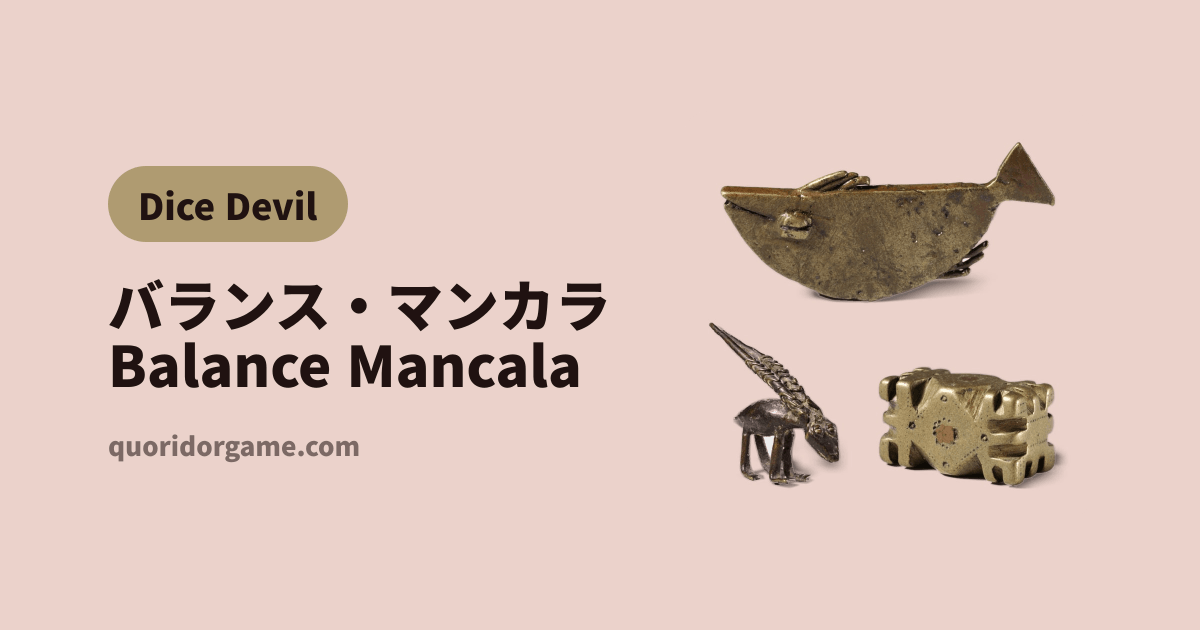
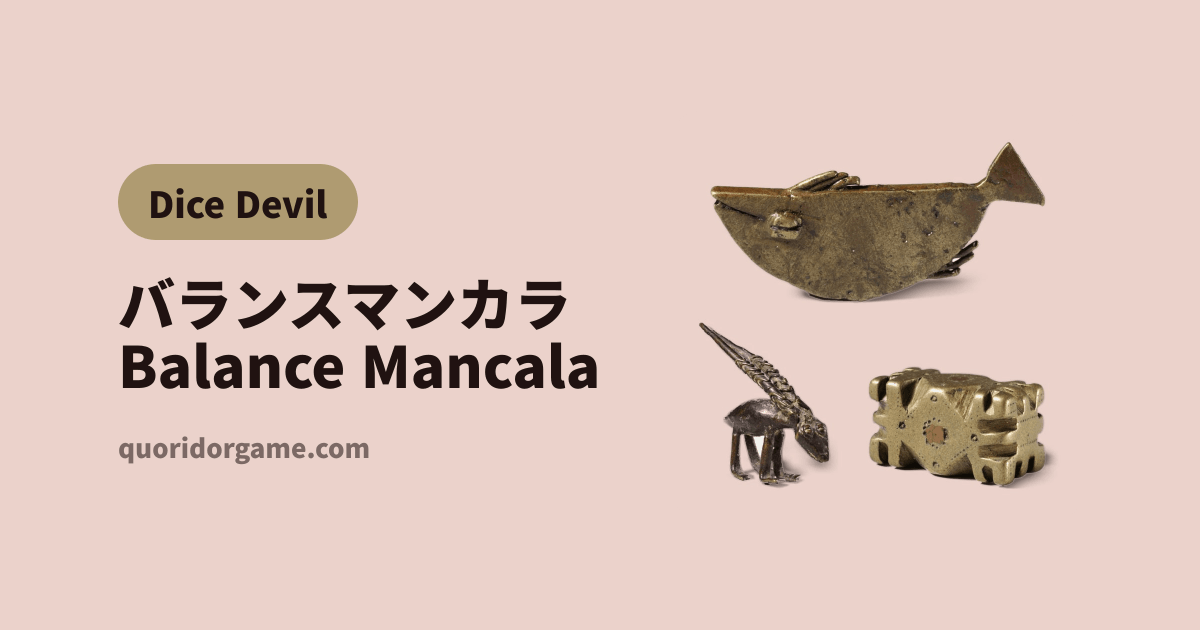
fix(balance-mancala): 日文名照日本觀眾的寫法改成「バランスマンカラ」
查證時日本粉絲都不加中間的點；平台卡片也用同一個寫法。日文分享圖重產。

Claude-Session: https://claude.ai/code/session_01VbfEeJvisc9iRddWhVWALh

diff --git a/app/games/balance-mancala/text.ts b/app/games/balance-mancala/text.ts
@@ -5,7 +5,7 @@ import type { TextTable } from '@/i18n/gameText';
  * 語系 key 在兩格縮排、依 'zh-TW' → en → ja → ko → 'zh-Hans' → th 排，字型子集靠這個切字。
  *
  * 用詞照 glossary.md：棋子／piece／駒／말／棋子／หมาก，本機對戰、單人對戰的各語說法。
- * 遊戲名：繁簡「平衡播棋」（節目的中文名；原本自己取的「均衡曼卡拉」10/24 照 Netflix 版本改掉，見 glossary〈遊戲名〉）、英文 Balance Mancala、日文「バランス・マンカラ」、
+ * 遊戲名：繁簡「平衡播棋」（節目的中文名；原本自己取的「均衡曼卡拉」10/24 照 Netflix 版本改掉，見 glossary〈遊戲名〉）、英文 Balance Mancala、日文「バランスマンカラ」（日本觀眾的寫法，不加中間的點，10/25 查證）、
  * 韓文「균형의 만칼라」（節目 RULE 卡的名字）、泰文「แมนคาลาสมดุล」。
  * {seat} 是座位字母、{cell} 是格子名（「藍 05」「惡魔」）、{colour} 是顏色名。
  */
@@ -306,12 +306,12 @@ export const TEXT: TextTable<BalanceMancalaText> = {
     credit: 'Icons: game-icons.net (CC BY 3.0). The border is the edge of an adinkra cloth: cowries (Nsirewa, wealth) along the top and bottom, twisting (Nkyimkyim, adaptability) down the sides and linked hearts (Akoma ntoaso, unity) in the corners. Symbols from R. S. Rattray, Religion and Art in Ashanti (1927).',
   },
   ja: {
-    title: 'バランス・マンカラ',
+    title: 'バランスマンカラ',
     altName: 'Balance Mancala',
     showRef: '悪魔の計略 ～デビルズ・プラン～ シーズン2 · 5日目',
     tagline: '最後の駒を誰に置くかはあなた次第。3色をそろえよう。',
-    metaTitle: 'バランス・マンカラ（Balance Mancala）を無料でオンラインプレイ',
-    metaDescription: 'Netflix『悪魔の計略 ～デビルズ・プラン～』シーズン2・5日目のメインマッチ「バランス・マンカラ」。14マスの輪から1マスの駒をすべて取り、時計回りに1つずつ置いていきます。最後の駒の持ち主が得点。赤・青・緑の3色をそろえるのがカギ：最終スコア＝2×最低−最高。AI対戦やローカル対戦で、ダウンロード・登録なしで遊べます。',
+    metaTitle: 'バランスマンカラ（Balance Mancala）を無料でオンラインプレイ',
+    metaDescription: 'Netflix『悪魔の計略 ～デビルズ・プラン～』シーズン2・5日目のメインマッチ「バランスマンカラ」。14マスの輪から1マスの駒をすべて取り、時計回りに1つずつ置いていきます。最後の駒の持ち主が得点。赤・青・緑の3色をそろえるのがカギ：最終スコア＝2×最低−最高。AI対戦やローカル対戦で、ダウンロード・登録なしで遊べます。',
     modeSolo: 'AIと対戦',
     modeLocal: 'ローカル対戦',
     modeOnline: 'オンライン対戦',
@@ -379,7 +379,7 @@ export const TEXT: TextTable<BalanceMancalaText> = {
     inviteBody: 'あと {n} 人。{total} 人そろうと自動で始まります。',
     seated: '着席',
     emptySeat: '空席',
-    shareText: '一緒にバランス・マンカラをやろう',
+    shareText: '一緒にバランスマンカラをやろう',
     leave: 'やめる',
     stay: '続ける',
     rulesHeading: '遊び方',
@@ -393,9 +393,9 @@ export const TEXT: TextTable<BalanceMancalaText> = {
       '最終スコア＝2×最低色−最高色。3色がそろうほど高くなります。同点なら最高色が低い人が上位。',
     ],
     ruleTitles: ['14マスの輪', '最初の配置', '種まき', '最後の駒が得点', '天使マスと悪魔マス', '30点で終了', '最終スコア'],
-    rulesTitle: 'バランス・マンカラのルール',
-    rulesMetaTitle: 'バランス・マンカラ（Balance Mancala）のルールと遊び方',
-    rulesMetaDescription: 'バランス・マンカラの全ルールを図で解説：14マスの輪と天使・悪魔マス、駒の配置、時計回りの種まき、最後の駒で決まる得点、30点での終了と最終スコア＝2×最低−最高。『悪魔の計略 ～デビルズ・プラン～』シーズン2・5日目のメインマッチのゲーム。',
+    rulesTitle: 'バランスマンカラのルール',
+    rulesMetaTitle: 'バランスマンカラ（Balance Mancala）のルールと遊び方',
+    rulesMetaDescription: 'バランスマンカラの全ルールを図で解説：14マスの輪と天使・悪魔マス、駒の配置、時計回りの種まき、最後の駒で決まる得点、30点での終了と最終スコア＝2×最低−最高。『悪魔の計略 ～デビルズ・プラン～』シーズン2・5日目のメインマッチのゲーム。',
     rulesCta: 'トップで遊び方を選ぶ',
     example: '例：赤 13・青 11・緑 20 → 2×11−20＝2 点',
     showNote: 'Netflix『悪魔の計略 ～デビルズ・プラン～』シーズン2・5日目のメインマッチより。非公式のファン版です。番組は7人でしたが、ここでは4〜7席で遊べます。AI対戦とローカル対戦では空いた席にAIが入り、オンライン対戦は全員プレイヤーです。',
